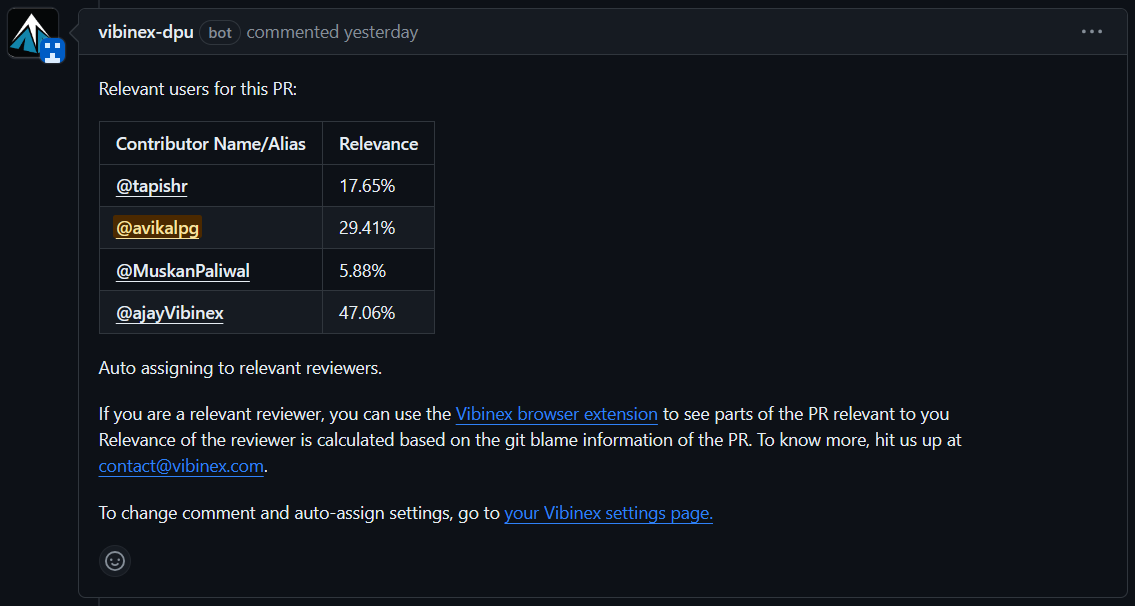
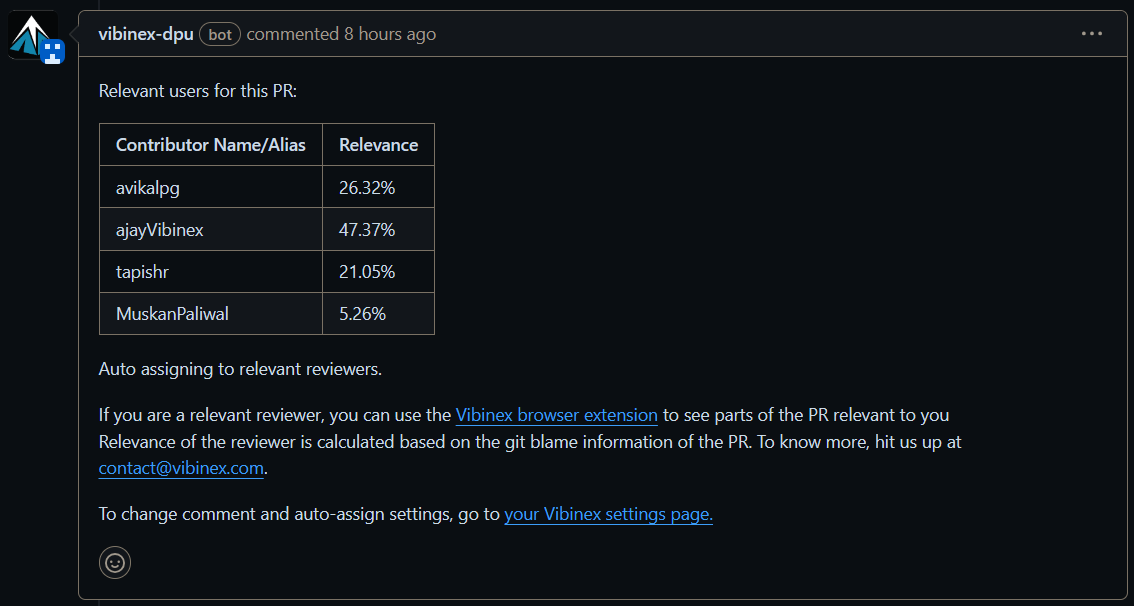
1. Changed the relevanceComment image to the one without the tags 2. Multiple fixes in the CarouselBase component based on recommendations of CodeRabbit 3. Updated the version of the application in package

diff --git a/components/CarousalBase.tsx b/components/CarousalBase.tsx
@@ -116,6 +116,7 @@ const Carousel = React.forwardRef<
 
 			return () => {
 				api?.off("select", onSelect)
+				api?.off("reInit", onSelect)
 			}
 		}, [api, onSelect])
 
@@ -133,16 +134,16 @@ const Carousel = React.forwardRef<
 			<CarouselContext.Provider
 				value={carouselContext}
 			>
-				<div
+				<section
 					ref={ref}
 					onKeyDownCapture={handleKeyDown}
 					className={"relative " + className}
-					role="region"
+					aria-label="carousel"
 					aria-roledescription="carousel"
 					{...props}
 				>
 					{children}
-				</div>
+				</section>
 			</CarouselContext.Provider>
 		)
 	}
